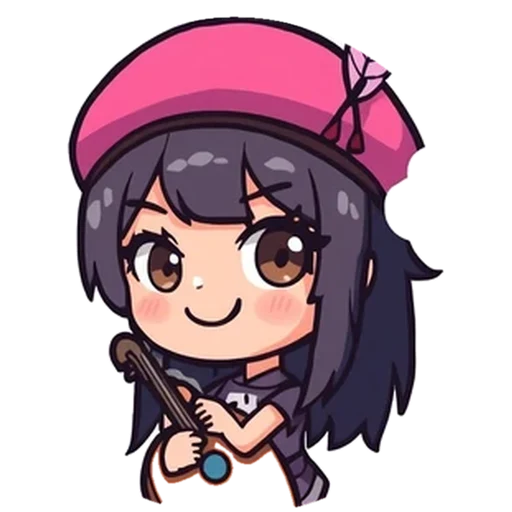
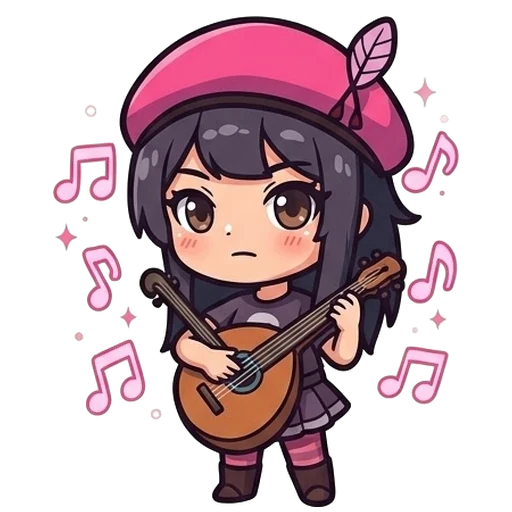
Tropas de cuerpo entero en reposo y efectos ilustrados de fuego, hielo, veneno y cañón
Las 15 tropas tienen pose de reposo de cuerpo entero con el mismo encuadre que la de ataque, así que ya no saltan de busto a cuerpo al disparar. Brasa, Fénix, Nívea, Mirra, Rocco y Titán disparan con proyectil ilustrado, destello en el arma e impacto con rebote del tamaño de su área.

diff --git a/sw.js b/sw.js
@@ -2,8 +2,8 @@
 // Guarda el juego para poder jugar sin conexión. Página, JS y CSS van
 // primero a la red (así se ven los cambios al momento); imágenes y fuentes
 // salen de la caché y se renuevan por detrás.
-var CACHE = 'reino-de-torres-v26';
-var CORE = ['./', 'index.html', 'style.css', 'favicon.svg', 'manifest.json', 'js/data.js', 'js/art.js', 'js/meta.js', 'js/board.js', 'js/battle.js', 'js/ui.js', 'assets/ui/boton.webp', 'assets/ui/boton-jugar.webp', 'assets/ui/banner-mazo.webp', 'assets/ui/hueco-cofre.webp', 'assets/ui/banner-campana.webp', 'assets/ui/banner-duelo.webp', 'assets/ui/banner-coop.webp', 'assets/ui/header.webp', 'assets/ui/navbar.webp', 'assets/ui/titulo.webp', 'assets/ui/letrero.webp', 'assets/tablero.webp', 'assets/enemies/blob.webp', 'assets/ui/fondo.webp', 'assets/ui/boton-invocar.webp', 'assets/ui/marco-carta.webp', 'assets/ui/carta.webp', 'assets/ui/vida.webp', 'assets/ui/mana.webp', 'assets/ui/contador-mana.webp', 'assets/ui/comandante.webp', 'assets/ui/boton-invocar-2.webp', 'assets/ui/marco.webp', 'assets/ui/marco-tienda.webp', 'assets/chests/destello.webp', 'assets/chests/moneda.webp', 'assets/chests/oro-monedas.webp', 'assets/chests/oro-saco.webp', 'assets/chests/oro-cofre.webp', 'assets/commanders/aria.webp', 'assets/commanders/merlo.webp', 'assets/commanders/brann.webp', 'assets/events/eclipse.webp', 'assets/events/lluvia.webp', 'assets/events/niebla.webp', 'assets/events/horda.webp', 'assets/events/calma.webp', 'assets/boards/arena.webp', 'assets/boards/lava.webp', 'assets/tiles/altar.webp', 'assets/tiles/fuente.webp', 'assets/tiles/atalaya.webp'].concat(['lyra', 'brasa', 'nivea', 'doblon', 'rocco', 'volta', 'mirra', 'melodia', 'sombra', 'cronos', 'halcon', 'ulric', 'fenix', 'aurora', 'titan'].map(function (id) { return 'assets/units/' + id + '.webp'; })).concat(['lyra', 'brasa', 'nivea', 'doblon', 'rocco', 'volta', 'mirra', 'melodia', 'sombra', 'cronos', 'halcon', 'ulric', 'fenix', 'aurora', 'titan'].reduce(function (a, id) { return a.concat(['assets/units/board/' + id + '-idle.webp', 'assets/units/board/' + id + '-attack.webp']); }, [])).concat(['madera', 'plata', 'oro'].reduce(function (a, k) { return a.concat(['assets/chests/' + k + '.webp', 'assets/chests/' + k + '-abierto.webp']); }, [])).concat(['ghost', 'brute', 'orco', 'rocoso', 'escarcha', 'gelido', 'coloso', 'coloso2', 'nigro', 'dragon'].map(function (id) { return 'assets/enemies/' + id + '.webp'; }));
+var CACHE = 'reino-de-torres-v27';
+var CORE = ['./', 'index.html', 'style.css', 'favicon.svg', 'manifest.json', 'js/data.js', 'js/art.js', 'js/meta.js', 'js/board.js', 'js/battle.js', 'js/ui.js', 'assets/ui/boton.webp', 'assets/ui/boton-jugar.webp', 'assets/ui/banner-mazo.webp', 'assets/ui/hueco-cofre.webp', 'assets/ui/banner-campana.webp', 'assets/ui/banner-duelo.webp', 'assets/ui/banner-coop.webp', 'assets/ui/header.webp', 'assets/ui/navbar.webp', 'assets/ui/titulo.webp', 'assets/ui/letrero.webp', 'assets/tablero.webp', 'assets/enemies/blob.webp', 'assets/ui/fondo.webp', 'assets/ui/boton-invocar.webp', 'assets/ui/marco-carta.webp', 'assets/ui/carta.webp', 'assets/ui/vida.webp', 'assets/ui/mana.webp', 'assets/ui/contador-mana.webp', 'assets/ui/comandante.webp', 'assets/ui/boton-invocar-2.webp', 'assets/ui/marco.webp', 'assets/ui/marco-tienda.webp', 'assets/chests/destello.webp', 'assets/chests/moneda.webp', 'assets/chests/oro-monedas.webp', 'assets/chests/oro-saco.webp', 'assets/chests/oro-cofre.webp', 'assets/commanders/aria.webp', 'assets/commanders/merlo.webp', 'assets/commanders/brann.webp', 'assets/events/eclipse.webp', 'assets/events/lluvia.webp', 'assets/events/niebla.webp', 'assets/events/horda.webp', 'assets/events/calma.webp', 'assets/boards/arena.webp', 'assets/boards/lava.webp', 'assets/tiles/altar.webp', 'assets/tiles/fuente.webp', 'assets/tiles/atalaya.webp'].concat(['lyra', 'brasa', 'nivea', 'doblon', 'rocco', 'volta', 'mirra', 'melodia', 'sombra', 'cronos', 'halcon', 'ulric', 'fenix', 'aurora', 'titan'].map(function (id) { return 'assets/units/' + id + '.webp'; })).concat(['lyra', 'brasa', 'nivea', 'doblon', 'rocco', 'volta', 'mirra', 'melodia', 'sombra', 'cronos', 'halcon', 'ulric', 'fenix', 'aurora', 'titan'].reduce(function (a, id) { return a.concat(['assets/units/board/' + id + '-idle.webp?v=2', 'assets/units/board/' + id + '-attack.webp']); }, [])).concat(['madera', 'plata', 'oro'].reduce(function (a, k) { return a.concat(['assets/chests/' + k + '.webp', 'assets/chests/' + k + '-abierto.webp']); }, [])).concat(['fuego', 'hielo', 'veneno', 'canon'].reduce(function (a, k) { return a.concat(['destello', 'bola', 'impacto'].map(function (p) { return 'assets/fx/' + k + '-' + p + '.webp'; })); }, [])).concat(['ghost', 'brute', 'orco', 'rocoso', 'escarcha', 'gelido', 'coloso', 'coloso2', 'nigro', 'dragon'].map(function (id) { return 'assets/enemies/' + id + '.webp'; }));
 self.addEventListener('install', function (e) { e.waitUntil(caches.open(CACHE).then(function (c) { return c.addAll(CORE); }).then(function () { return self.skipWaiting(); })); });
 self.addEventListener('activate', function (e) { e.waitUntil(caches.keys().then(function (ks) { return Promise.all(ks.filter(function (k) { return k !== CACHE; }).map(function (k) { return caches.delete(k); })); }).then(function () { return self.clients.claim(); })); });
 self.addEventListener('fetch', function (e) {

diff --git a/js/art.js b/js/art.js
@@ -72,7 +72,8 @@ Object.keys(IMG_LIST).forEach(function (dir) {
 })(['webp', 'png', 'jpg', 'jpeg']);
 function art(key) { var im = IMG[key]; return im && im.ready ? im : null; }
 
-/* Poses del tablero: cuerpo recortado sin chapa, en reposo y disparando.
+/* Poses del tablero: cuerpo entero sin chapa, en reposo y disparando,
+   con el mismo encuadre (pies abajo en el centro) para que no salte.
    face: hacia dónde mira la pose de ataque (1 derecha, -1 izquierda). */
 var POSES = {
   lyra: { face: 1 }, brasa: { face: -1 }, rocco: { face: -1 }, sombra: { face: -1 },
@@ -85,10 +86,43 @@ Object.keys(POSES).forEach(function (id) {
   ['idle', 'attack'].forEach(function (pose) {
     var im = new Image();
     im.onload = function () { im.ready = true; };
-    im.src = 'assets/units/board/' + id + '-' + pose + '.webp';
+    im.src = 'assets/units/board/' + id + '-' + pose + '.webp' + (pose === 'idle' ? '?v=2' : '');
     IMG['pose/' + id + '-' + pose] = im;
   });
 });
+
+/* Efectos ilustrados (assets/fx/<elemento>-<parte>.webp) por tipo de
+   proyectil: destello al disparar, proyectil e impacto. El proyectil
+   de fuego y hielo y el destello de hielo y cañón miran a la derecha. */
+var FX_OF = { fire: 'fuego', ice: 'hielo', poison: 'veneno', bomb: 'canon' };
+['fuego', 'hielo', 'veneno', 'canon'].forEach(function (el) {
+  ['destello', 'bola', 'impacto'].forEach(function (part) {
+    var im = new Image();
+    im.onload = function () { im.ready = true; };
+    im.src = 'assets/fx/' + el + '-' + part + '.webp';
+    IMG['fx/' + el + '-' + part] = im;
+  });
+});
+var FX_TURNS = { 'fx/fuego-bola': true, 'fx/hielo-bola': true, 'fx/hielo-destello': true, 'fx/canon-destello': true };
+/* Dibuja un efecto centrado en (x, y) con el lado mayor = size. */
+function drawFxPic(c, key, x, y, size, rot) {
+  var im = art(key);
+  if (!im) return false;
+  var k = size / Math.max(im.naturalWidth, im.naturalHeight), w = im.naturalWidth * k, h = im.naturalHeight * k;
+  c.save(); c.translate(x, y);
+  if (rot) c.rotate(rot);
+  c.drawImage(im, -w / 2, -h / 2, w, h);
+  c.restore();
+  return true;
+}
+/* Efecto 'pic' de la lista fx: crece de golpe con rebote y se apaga en la segunda mitad. */
+function drawPicFx(c, f) {
+  var t = 1 - f.life / f.max, gk = Math.min(1, t * 4);
+  var pop = f.grow + (1 - f.grow) * (gk + Math.sin(gk * Math.PI) * 0.25);
+  c.globalAlpha = t < 0.5 ? 1 : (1 - t) * 2;
+  drawFxPic(c, f.key, f.x, f.y, f.size * pop, f.rot);
+  c.globalAlpha = 1;
+}
 
 /* Copia teñida de una imagen (para crear monstruos a partir de la gelatina). */
 var _tintCache = {};
@@ -149,7 +183,7 @@ function drawUnit(c, id, x, y, r, rank, now, opt) {
     } else {
       // respiración: se estira un poco hacia arriba
       if (!opt.still) c.scale(1, 1 + Math.sin(now / 520 + x * 0.05) * 0.025);
-      var si = r * 2.15;
+      var si = r * 2.35;
       c.drawImage(idle, -si / 2, -si, si, si);
     }
     c.restore();

diff --git a/js/board.js b/js/board.js
@@ -321,6 +321,12 @@ Board.prototype.fire = function (i, u) {
     return true;
   }
   this.shots.push({ x: from.x, y: from.y, sx: from.x, sy: from.y, target: target, t: 0, dur: d.proj === 'bullet' ? 0.12 : 0.32, kind: d.proj, color: d.color, color2: d.color2, dmg: this.unitDamage(i), def: d, unit: u });
+  // destello ilustrado en la boca del arma
+  if (FX_OF[d.proj]) {
+    var mk = 'fx/' + FX_OF[d.proj] + '-destello';
+    this.fx.push({ type: 'pic', key: mk, x: from.x + Math.cos(u.aim) * 0.32, y: from.y - 0.12 + Math.sin(u.aim) * 0.32,
+      size: 0.46, rot: FX_TURNS[mk] ? u.aim : 0, grow: 0.5, life: 0.16, max: 0.16 });
+  }
   return true;
 };
 Board.prototype.nearestTo = function (p, exclude, maxD) {
@@ -345,7 +351,8 @@ Board.prototype.applyHit = function (e, dmg, d, u) {
     this.enemies.forEach(function (o) {
       if (o !== e && !o.dead && Math.hypot(o.x - e.x, o.y - e.y) <= r) this.hit(o, dmg * 0.6, d, d.proj);
     }, this);
-    this.addFx('boom', { x: e.x, y: e.y }, d.color2, r);
+    // con impacto ilustrado no hace falta el aro (el dibujo ya marca el área)
+    if (!FX_OF[d.proj]) this.addFx('boom', { x: e.x, y: e.y }, d.color2, r);
   }
   this.hit(e, dmg, d, d.proj);
 };
@@ -408,6 +415,11 @@ Board.prototype.update = function (dt) {
     s.x = s.sx + (tgt.x - s.sx) * f;
     s.y = s.sy + (tgt.y - s.sy) * f - Math.sin(f * Math.PI) * (s.kind === 'bomb' ? 0.8 : 0.15);
     if (f >= 1) {
+      if (FX_OF[s.kind]) {
+        // impacto ilustrado del tamaño del área de daño
+        var big = s.def.splash ? s.def.splash * 1.7 + 0.08 * s.unit.rank : 0.62;
+        this.fx.push({ type: 'pic', key: 'fx/' + FX_OF[s.kind] + '-impacto', x: tgt.x, y: tgt.y + 0.08, size: big, rot: 0, grow: 0.55, life: 0.42, max: 0.42 });
+      }
       if (!tgt.dead) this.applyHit(tgt, s.dmg, s.def, s.unit);
       this.shots.splice(k, 1);
     }

diff --git a/js/battle.js b/js/battle.js
@@ -538,6 +538,8 @@ function drawBoard(b, L, now, isMain) {
       ctx.beginPath(); ctx.moveTo(f.x1, f.y1);
       for (var s = 1; s < 5; s++) ctx.lineTo(f.x1 + (f.x2 - f.x1) * s / 5 + (Math.random() - 0.5) * 0.2, f.y1 + (f.y2 - f.y1) * s / 5 + (Math.random() - 0.5) * 0.2);
       ctx.lineTo(f.x2, f.y2); ctx.stroke(); ctx.globalAlpha = 1;
+    } else if (f.type === 'pic') {
+      drawPicFx(ctx, f);
     } else if (f.type === 'flash') {
       ctx.globalAlpha = (f.life / f.max) * 0.5; ctx.fillStyle = f.color; ctx.fillRect(0, 0, G.W, G.H); ctx.globalAlpha = 1;
     } else {
@@ -679,6 +681,21 @@ function drawTileIcon(type, x, y, r) {
 }
 function drawShot(s, now) {
   var x = s.x, y = s.y;
+  // proyectiles ilustrados: fuego y hielo miran hacia donde van, el frasco
+  // gira y la bomba da vueltas despacio
+  var el = FX_OF[s.kind];
+  if (el) {
+    var key = 'fx/' + el + '-bola', rot;
+    if (FX_TURNS[key]) {
+      var px = s.px != null ? s.px : s.sx, py = s.py != null ? s.py : s.sy;
+      rot = (Math.abs(x - px) + Math.abs(y - py) > 0.001) ? Math.atan2(y - py, x - px) : Math.atan2(s.target.y - s.sy, s.target.x - s.sx);
+    } else rot = now / (s.kind === 'bomb' ? 260 : 120);
+    s.px = x; s.py = y;
+    var size = s.kind === 'fire' ? 0.5 : s.kind === 'ice' ? 0.42 : s.kind === 'bomb' ? 0.34 : 0.32;
+    if (s.def && s.def.id === 'titan') size *= 1.3;
+    if (s.kind === 'fire') glow(ctx, x, y, 0.26, '#ff7a1a', 0.45);
+    if (drawFxPic(ctx, key, x, y, size, rot)) return;
+  }
   switch (s.kind) {
     case 'arrow': {
       var a = Math.atan2(s.target.y - s.sy, s.target.x - s.sx);

diff --git a/index.html b/index.html
@@ -54,10 +54,10 @@
   <div id="toast" class="toast"></div>
 
   <script src="js/data.js?v=20"></script>
-  <script src="js/art.js?v=17"></script>
+  <script src="js/art.js?v=18"></script>
   <script src="js/meta.js?v=19"></script>
-  <script src="js/board.js?v=17"></script>
-  <script src="js/battle.js?v=17"></script>
-  <script src="js/ui.js?v=29"></script>
+  <script src="js/board.js?v=18"></script>
+  <script src="js/battle.js?v=18"></script>
+  <script src="js/ui.js?v=30"></script>
 </body>
 </html>

diff --git a/js/ui.js b/js/ui.js
@@ -402,6 +402,7 @@ function startCardDemo(cv, id) {
     b.shots.forEach(function (s2) { drawShot(s2, t); });
     ctx = keep;
     b.fx.forEach(function (f) {
+      if (f.type === 'pic') { drawPicFx(dc, f); return; }
       var a = f.life / f.max;
       dc.globalAlpha = a; dc.strokeStyle = f.color; dc.lineWidth = 0.06;
       if (f.type === 'bolt') { dc.beginPath(); dc.moveTo(f.x1, f.y1); dc.lineTo(f.x2, f.y2); dc.stroke(); }

diff --git a/README.md b/README.md
@@ -64,7 +64,8 @@ La ficha de cada tropa muestra una mini partida con la tropa en acción. Las tro
 - `assets/tiles/*.webp`: suelo de las casillas Altar, Fuente y Atalaya.
 - `assets/tablero.*`, `assets/boards/arena.webp` y `assets/boards/lava.webp`: tableros ilustrados de la campaña (prado, arena con marco de madera para hielo, ruinas y desierto, y lava para volcán y cripta). En arena y lava los monstruos aparecen abajo a la izquierda, rodean las casillas en U y se van abajo a la derecha. Salen de `assets/tablero-arena.jpg` y `assets/tablero-lava.jpg`.
 - `assets/chests/*.webp`: cofres de madera, plata y oro (cerrado y `-abierto`), el destello que gira detrás al abrirlos, la moneda de las partículas y los tres paquetes de oro de la tienda. Recortados sin fondo de `assets/cofre-*.jpg`, `assets/destello-cofre.jpg` y `assets/oro.jpg`. `assets/ui/marco-tienda.webp` es el marco de las tarjetas de cofres y oro.
-- `assets/units/board/*-idle.webp` y `*-attack.webp`: las 15 tropas en el tablero sin chapa, en reposo (recortadas de su ficha) y atacando (de los originales `assets/*-attacking.*`).
+- `assets/units/board/*-idle.webp` y `*-attack.webp`: las 15 tropas en el tablero sin chapa y de cuerpo entero, en reposo (de los originales `assets/set_*.jpg`) y atacando (de `assets/*-attacking.*`). Las dos poses van encuadradas igual: pies abajo en el centro y la figura ocupando el alto.
+- `assets/fx/<elemento>-<parte>.webp`: destello al disparar, proyectil e impacto de fuego (Brasa y Fénix), hielo (Nívea), veneno (Mirra) y cañón (Rocco y Titán), recortados de `assets/proyectiles_*.jpg`. El proyectil de fuego y hielo y el destello de hielo y cañón miran a la derecha y se giran hacia el enemigo.
 - `assets/commanders/*.webp`: retratos de Aria, Merlo y Brann.
 - `assets/events/*.webp`: medallones de los eventos de oleada (recortados de `assets/wave_events.jpg`).
 - Pantalla principal (`assets/ui/`): `header` (barra de recursos), `banner-mazo` (las 5 tropas del mazo, una por aro; centros en `DECK_RINGS` de `js/ui.js`), `boton-jugar`, `hueco-cofre` (huecos de cofre), `banner-campana`, `banner-duelo` y `banner-coop` (botones de modo, con el icono en el aro) y `navbar` (barra de pestañas). Recortados sin fondo de `assets/header.jpg`, `assets/banner-*.jpg`, `assets/boton jugar.jpg`, `assets/hueco-cofres.jpg` y `assets/navbar.jpg`.
